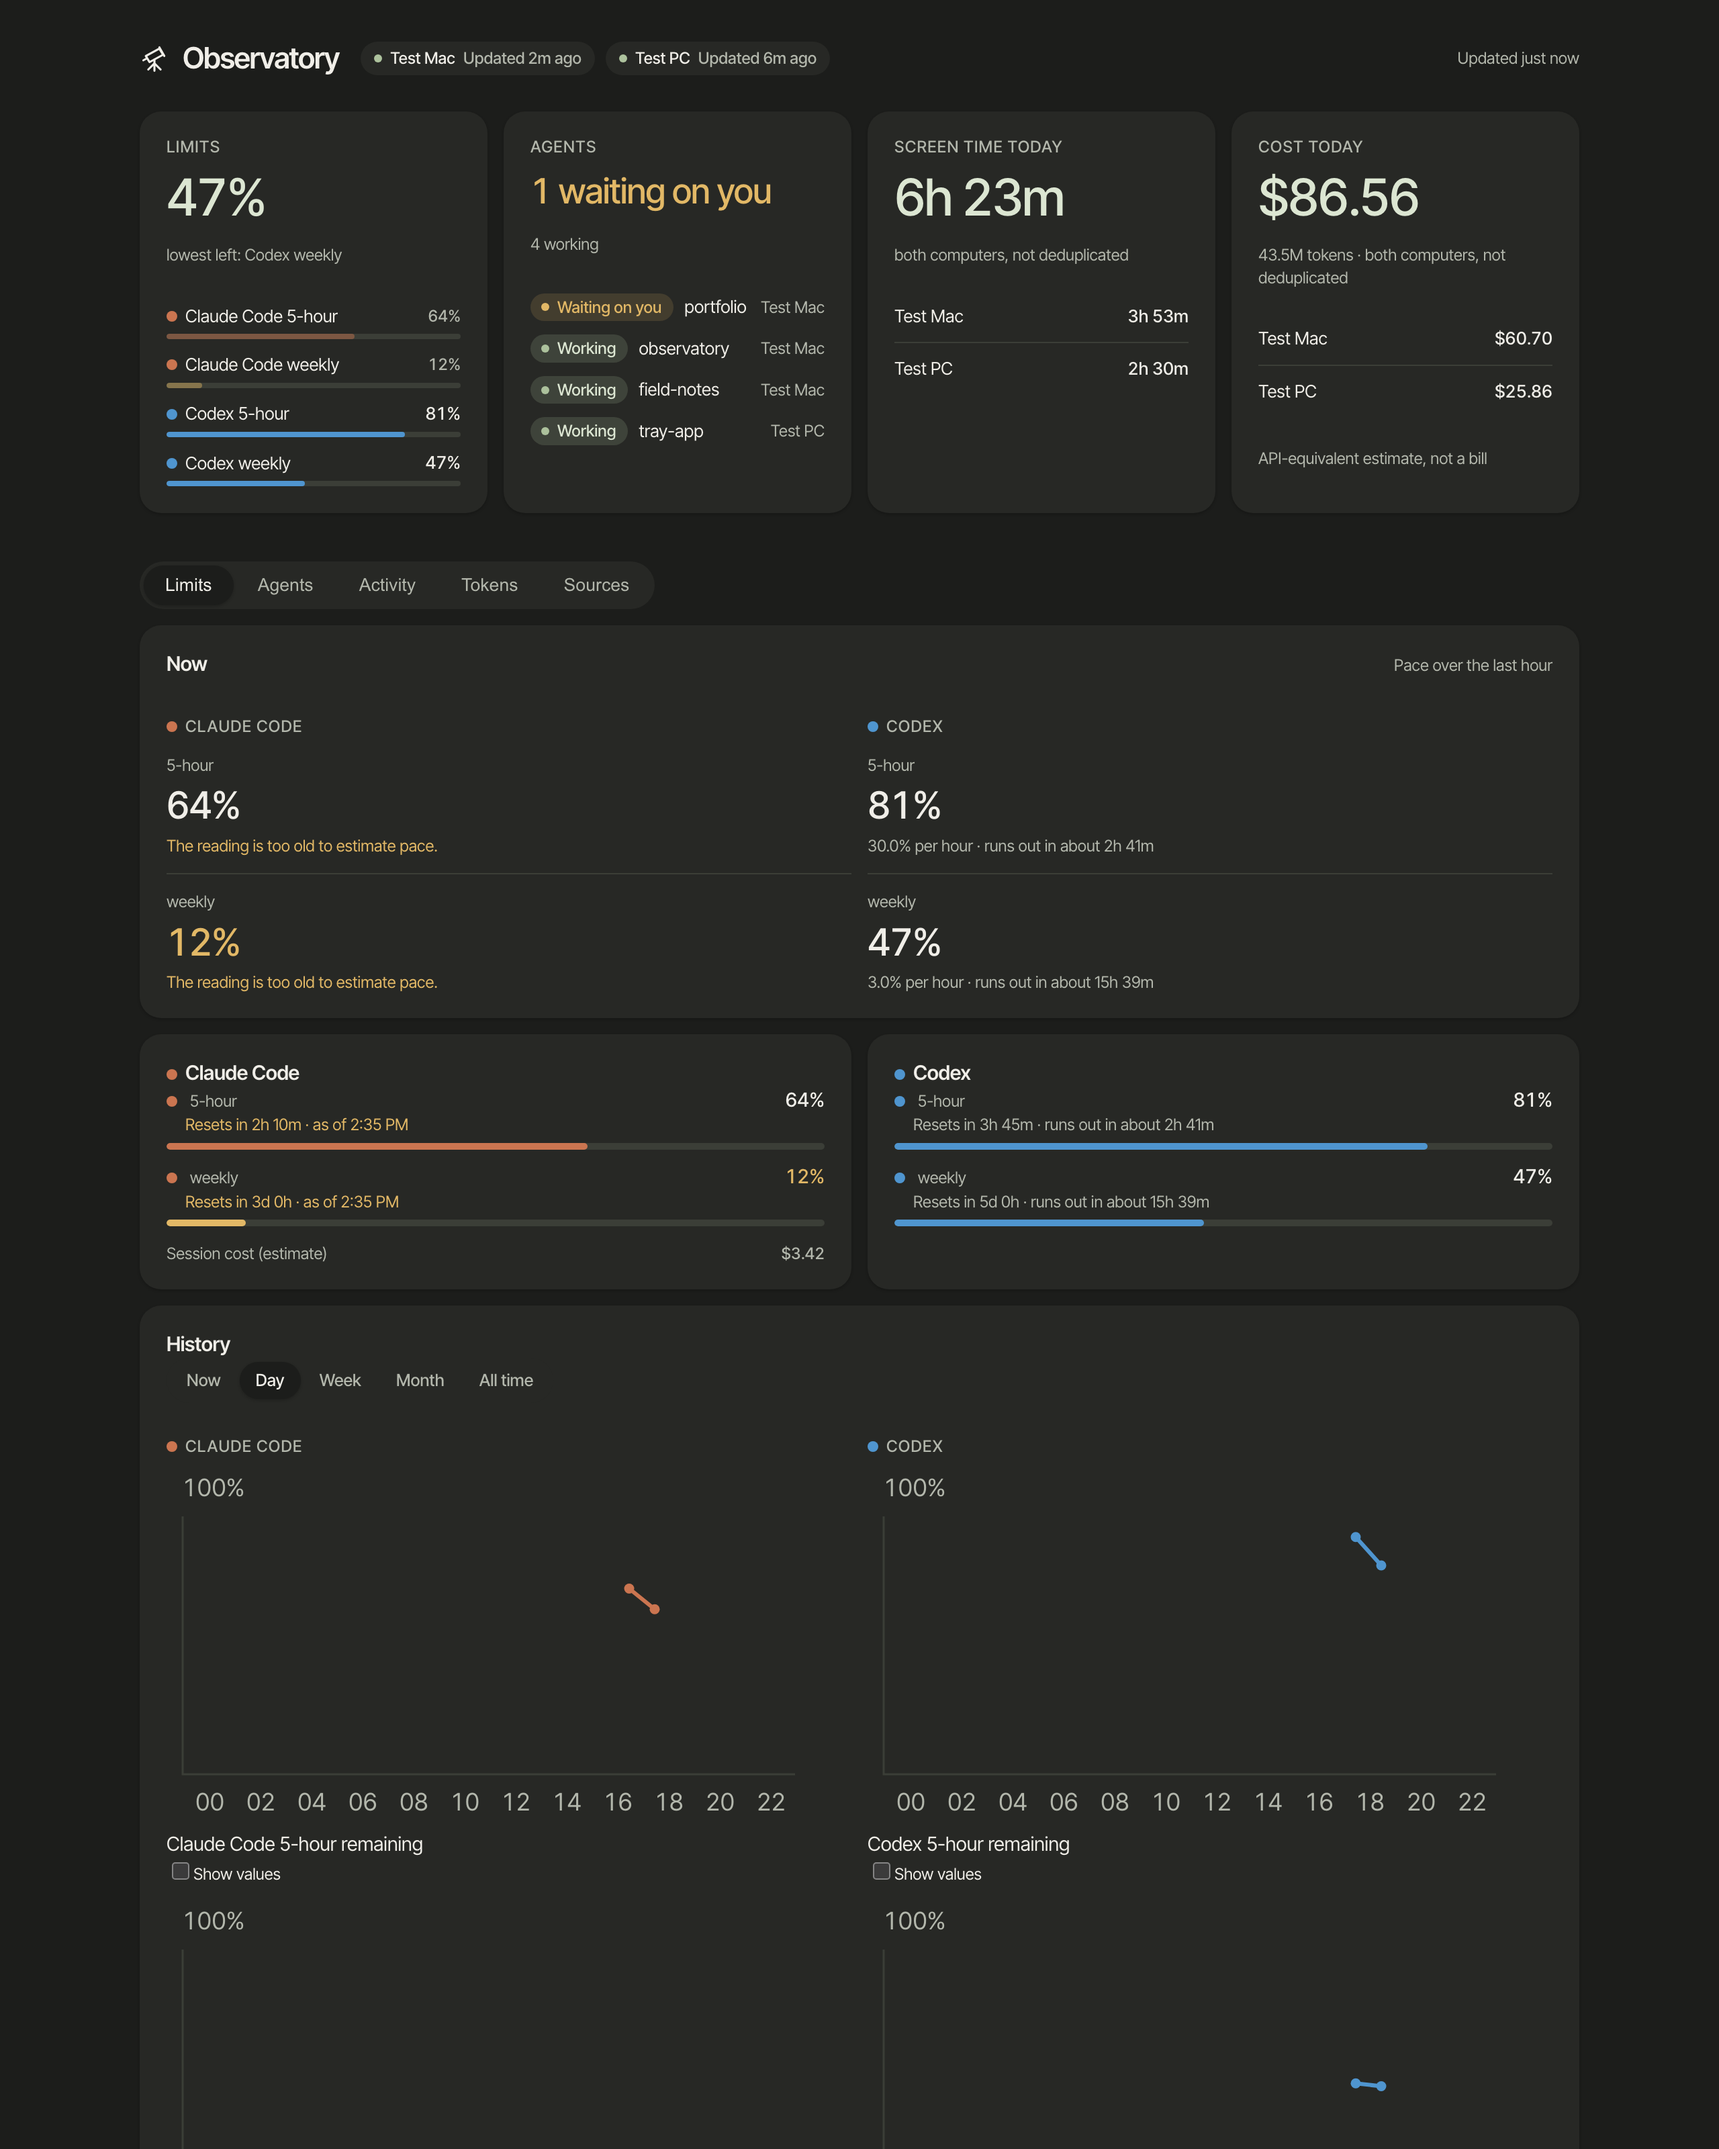
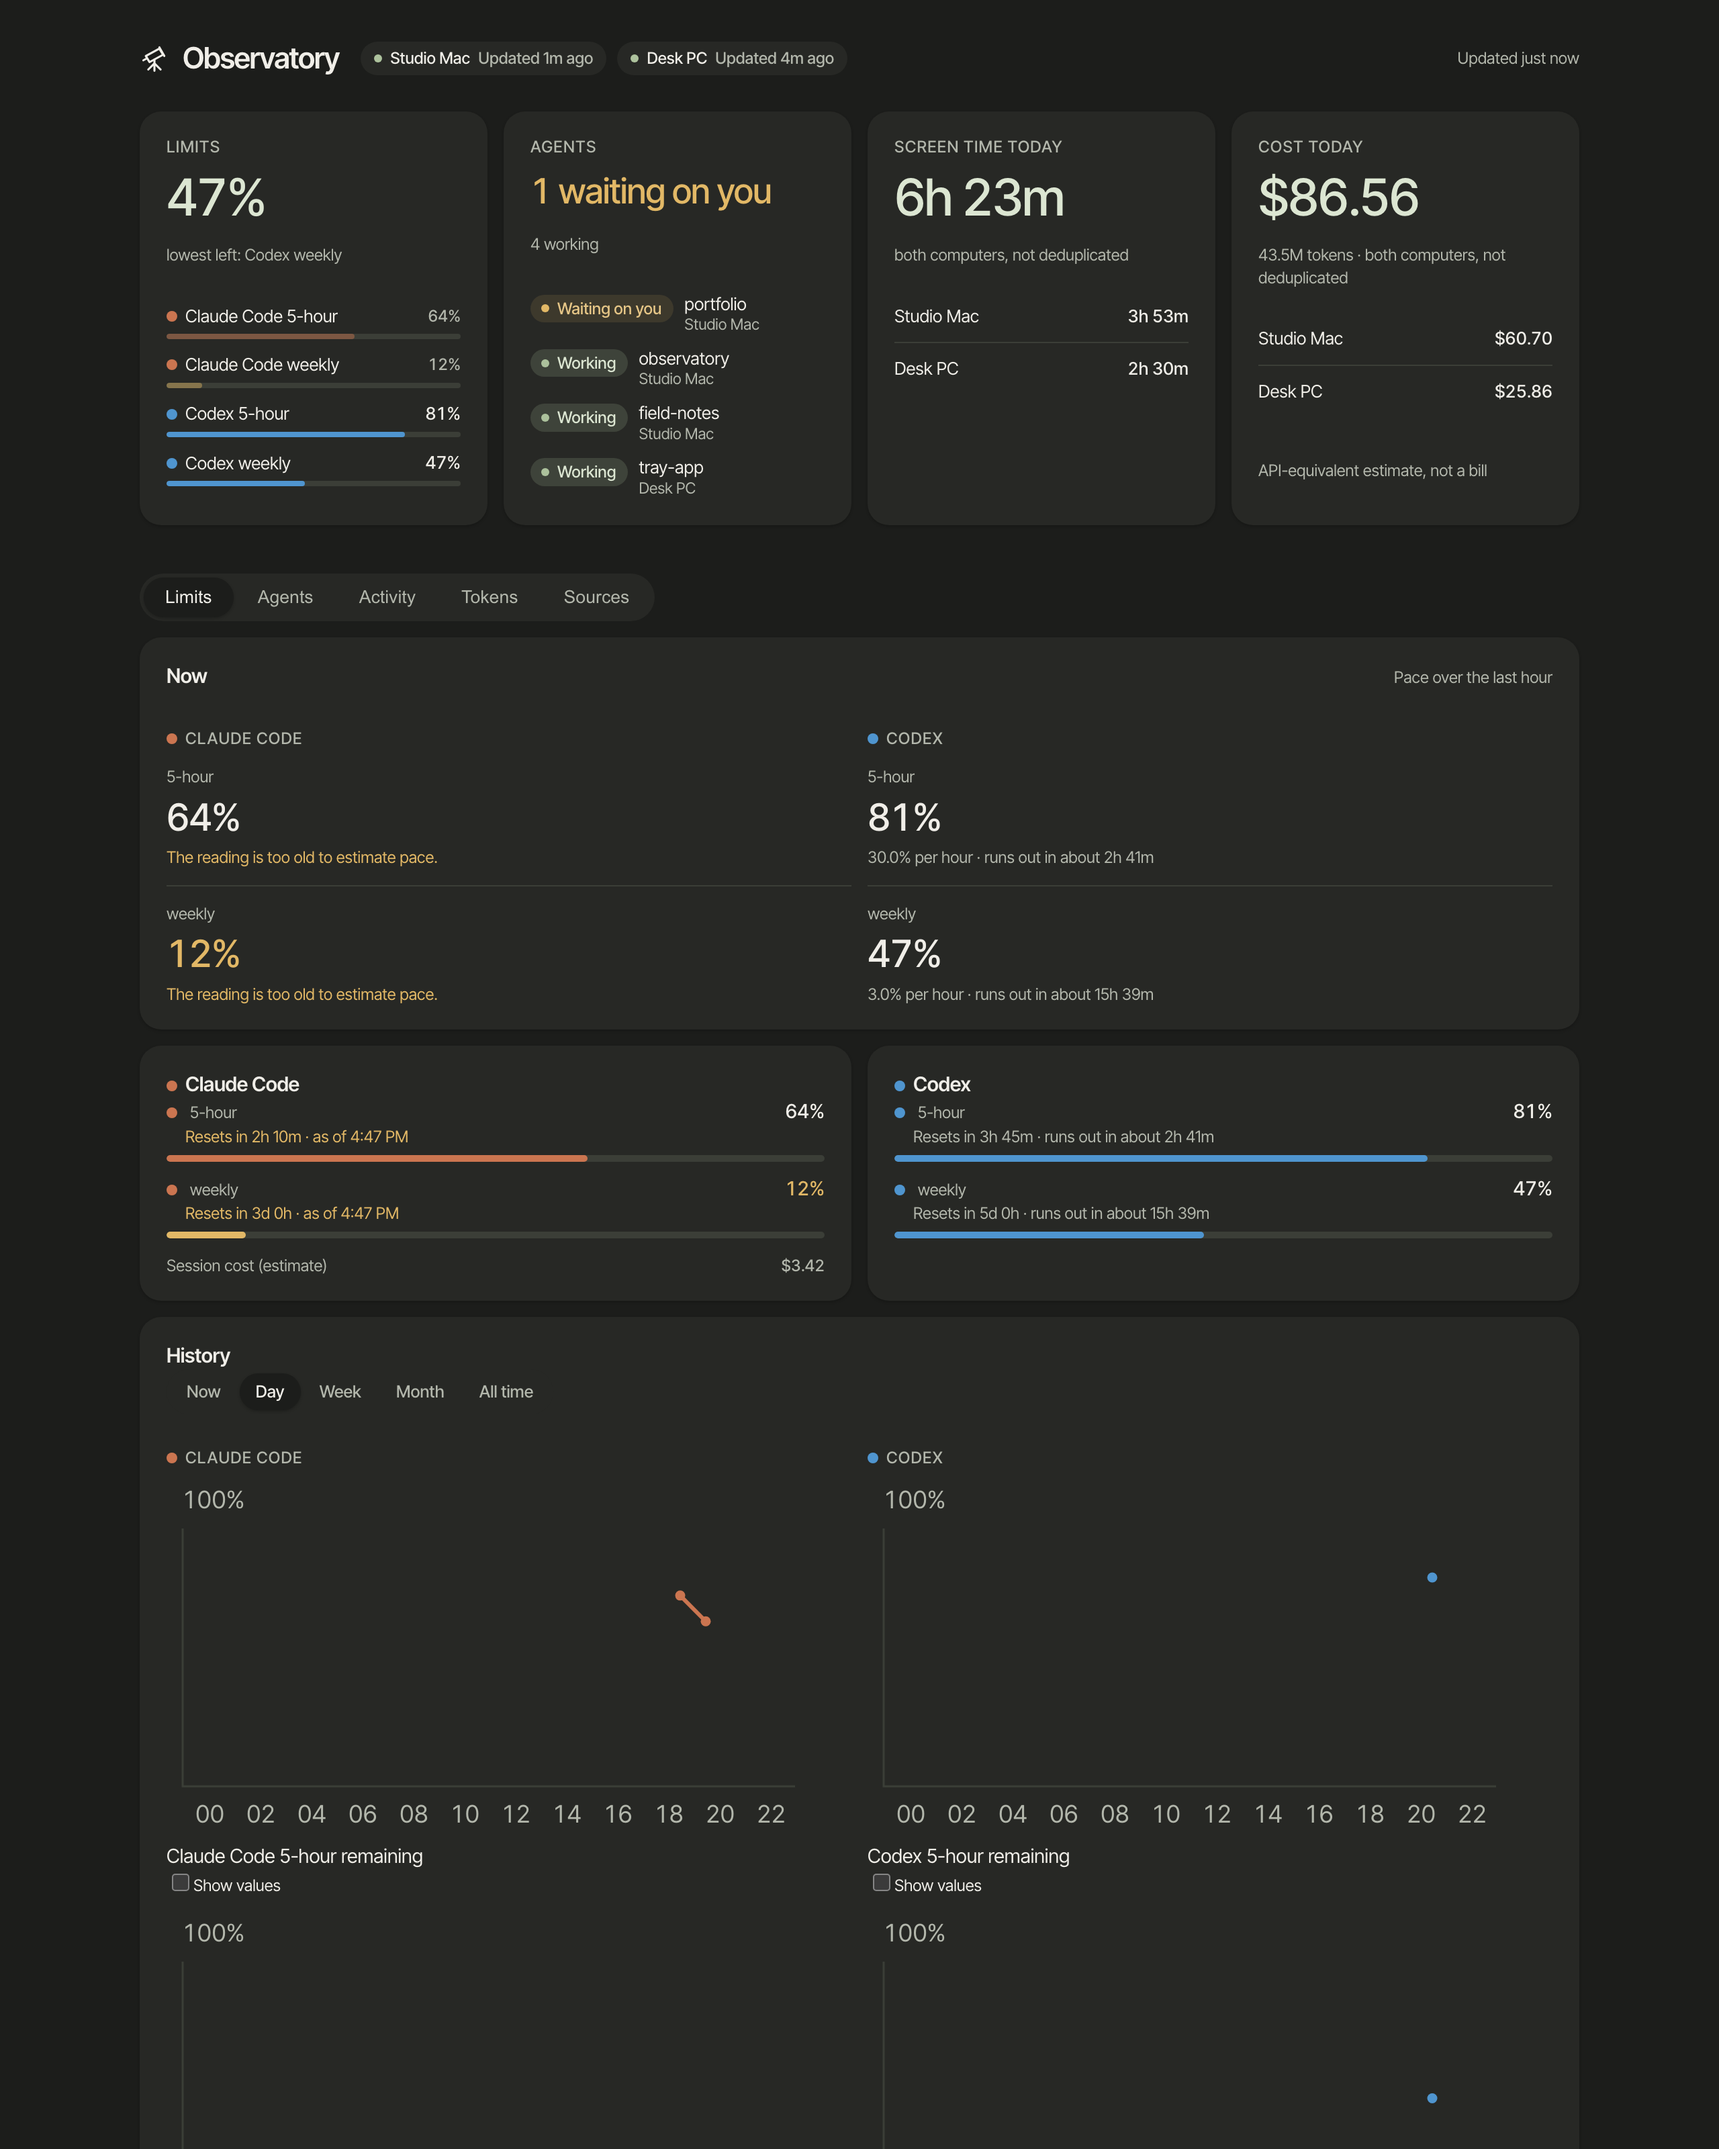
Screenshots: the real menu bar app with fictional data, refreshed dashboard images with fictional computer names, agents tile no longer truncates names

diff --git a/app/viewer/dashboard.css b/app/viewer/dashboard.css
@@ -42,7 +42,11 @@
 .ob-tile-label { display: flex; align-items: center; min-width: 0; white-space: nowrap; overflow: hidden; text-overflow: ellipsis; }
 .ob-tile-list li { display: flex; align-items: center; gap: var(--ob-space-2); font-size: 13px; min-width: 0; }
 .ob-tile-list li > span:not(.ob-status) { min-width: 0; overflow: hidden; text-overflow: ellipsis; white-space: nowrap; }
-.ob-tile-list li .ob-meta { margin-left: auto; }
+.ob-tile-list li { align-items: flex-start; }
+.ob-tile-list .ob-status { margin-top: 1px; }
+.ob-tile-who { display: flex; flex-direction: column; min-width: 0; line-height: 1.25; }
+.ob-tile-who > span { overflow: hidden; text-overflow: ellipsis; white-space: nowrap; }
+.ob-tile-who .ob-meta { font-size: 11.5px; }
 .ob-tile-devices li { display: flex; justify-content: space-between; gap: var(--ob-space-2); font-size: 13px; }
 .ob-tile-devices li + li { padding-top: 10px; border-top: 1px solid var(--ob-track); }
 .ob-tile-foot { margin-top: auto !important; padding-top: var(--ob-space-4); }

diff --git a/app/viewer/overview/Overview.tsx b/app/viewer/overview/Overview.tsx
@@ -61,7 +61,7 @@ function AgentsCard({ glance, now }: { glance: Glance; now: number }) {
       {waiting && working ? <p className="ob-meta">{format(STRINGS.overview.agentsWorking, { count: working })}</p> : <p className="ob-meta">&nbsp;</p>}
       <ul className="ob-tile-list">
         {sessions.slice(0, 4).map((session, index) => (
-          <li key={index}><StatusPill status={session.status} /><span>{session.project ?? unknown}</span>{devices.length > 1 ? <span className="ob-meta">{session.device}</span> : null}</li>
+          <li key={index}><StatusPill status={session.status} /><span className="ob-tile-who"><span>{session.project ?? unknown}</span>{devices.length > 1 ? <span className="ob-meta">{session.device}</span> : null}</span></li>
         ))}
       </ul>
     </section>

diff --git a/README.md b/README.md
@@ -27,6 +27,13 @@
 | **Where did my time go?** | Screen time today and over time, by app and category, from [ActivityWatch](https://activitywatch.net/). |
 | **What did it cost?** | Tokens today and over time, and what they would cost at public API prices. |
 
+<p align="center">
+  <img src="docs/images/menu-bar-item.png" height="28" alt="The menu bar item: binoculars, 47 percent, and an amber dot">
+</p>
+<p align="center">
+  <img src="docs/images/menu-bar-menu.png" width="520" alt="The menu bar menu with fictional data: Limits, Agents and Today sections, then Open dashboard, Refresh and Quit">
+</p>
+
 Observatory is monitor-only. It never starts, stops or answers an agent, and it never changes the tools it reads.
 
 ## Quick start
@@ -116,13 +123,12 @@ Shots already in the repository:
 1. `docs/images/dashboard-one-computer-light.png`: one computer, Limits page, light.
 2. `docs/images/dashboard-agents-dark.png`: two computers, Agents page, dark.
 3. `docs/images/dashboard-{limits,agents,activity,tokens}-{light,dark}.png`: every page in both appearances.
+4. `docs/images/menu-bar-item.png` and `docs/images/menu-bar-menu.png`: the real Mac menu bar app showing the same fictional data. `PREVIEW_OUT=<file> npm run preview` writes that data as a `combined.json` for the app to read.
 
-Shots that need a real desktop, still to take:
+Shots still to take:
 
-4. Mac menu bar, closed: the telescope and the lowest percent, with the amber dot showing.
-5. Mac menu bar, open: the Limits, Agents and Today sections, then Open dashboard, Refresh and Quit.
-6. Windows tray icon with its number, and the tray menu open.
-7. The dashboard beside a terminal running Claude Code, with one session waiting on you.
+5. Windows tray icon with its number, and the tray menu open.
+6. The dashboard beside a terminal running Claude Code, with one session waiting on you.
 
 ## Development
 
